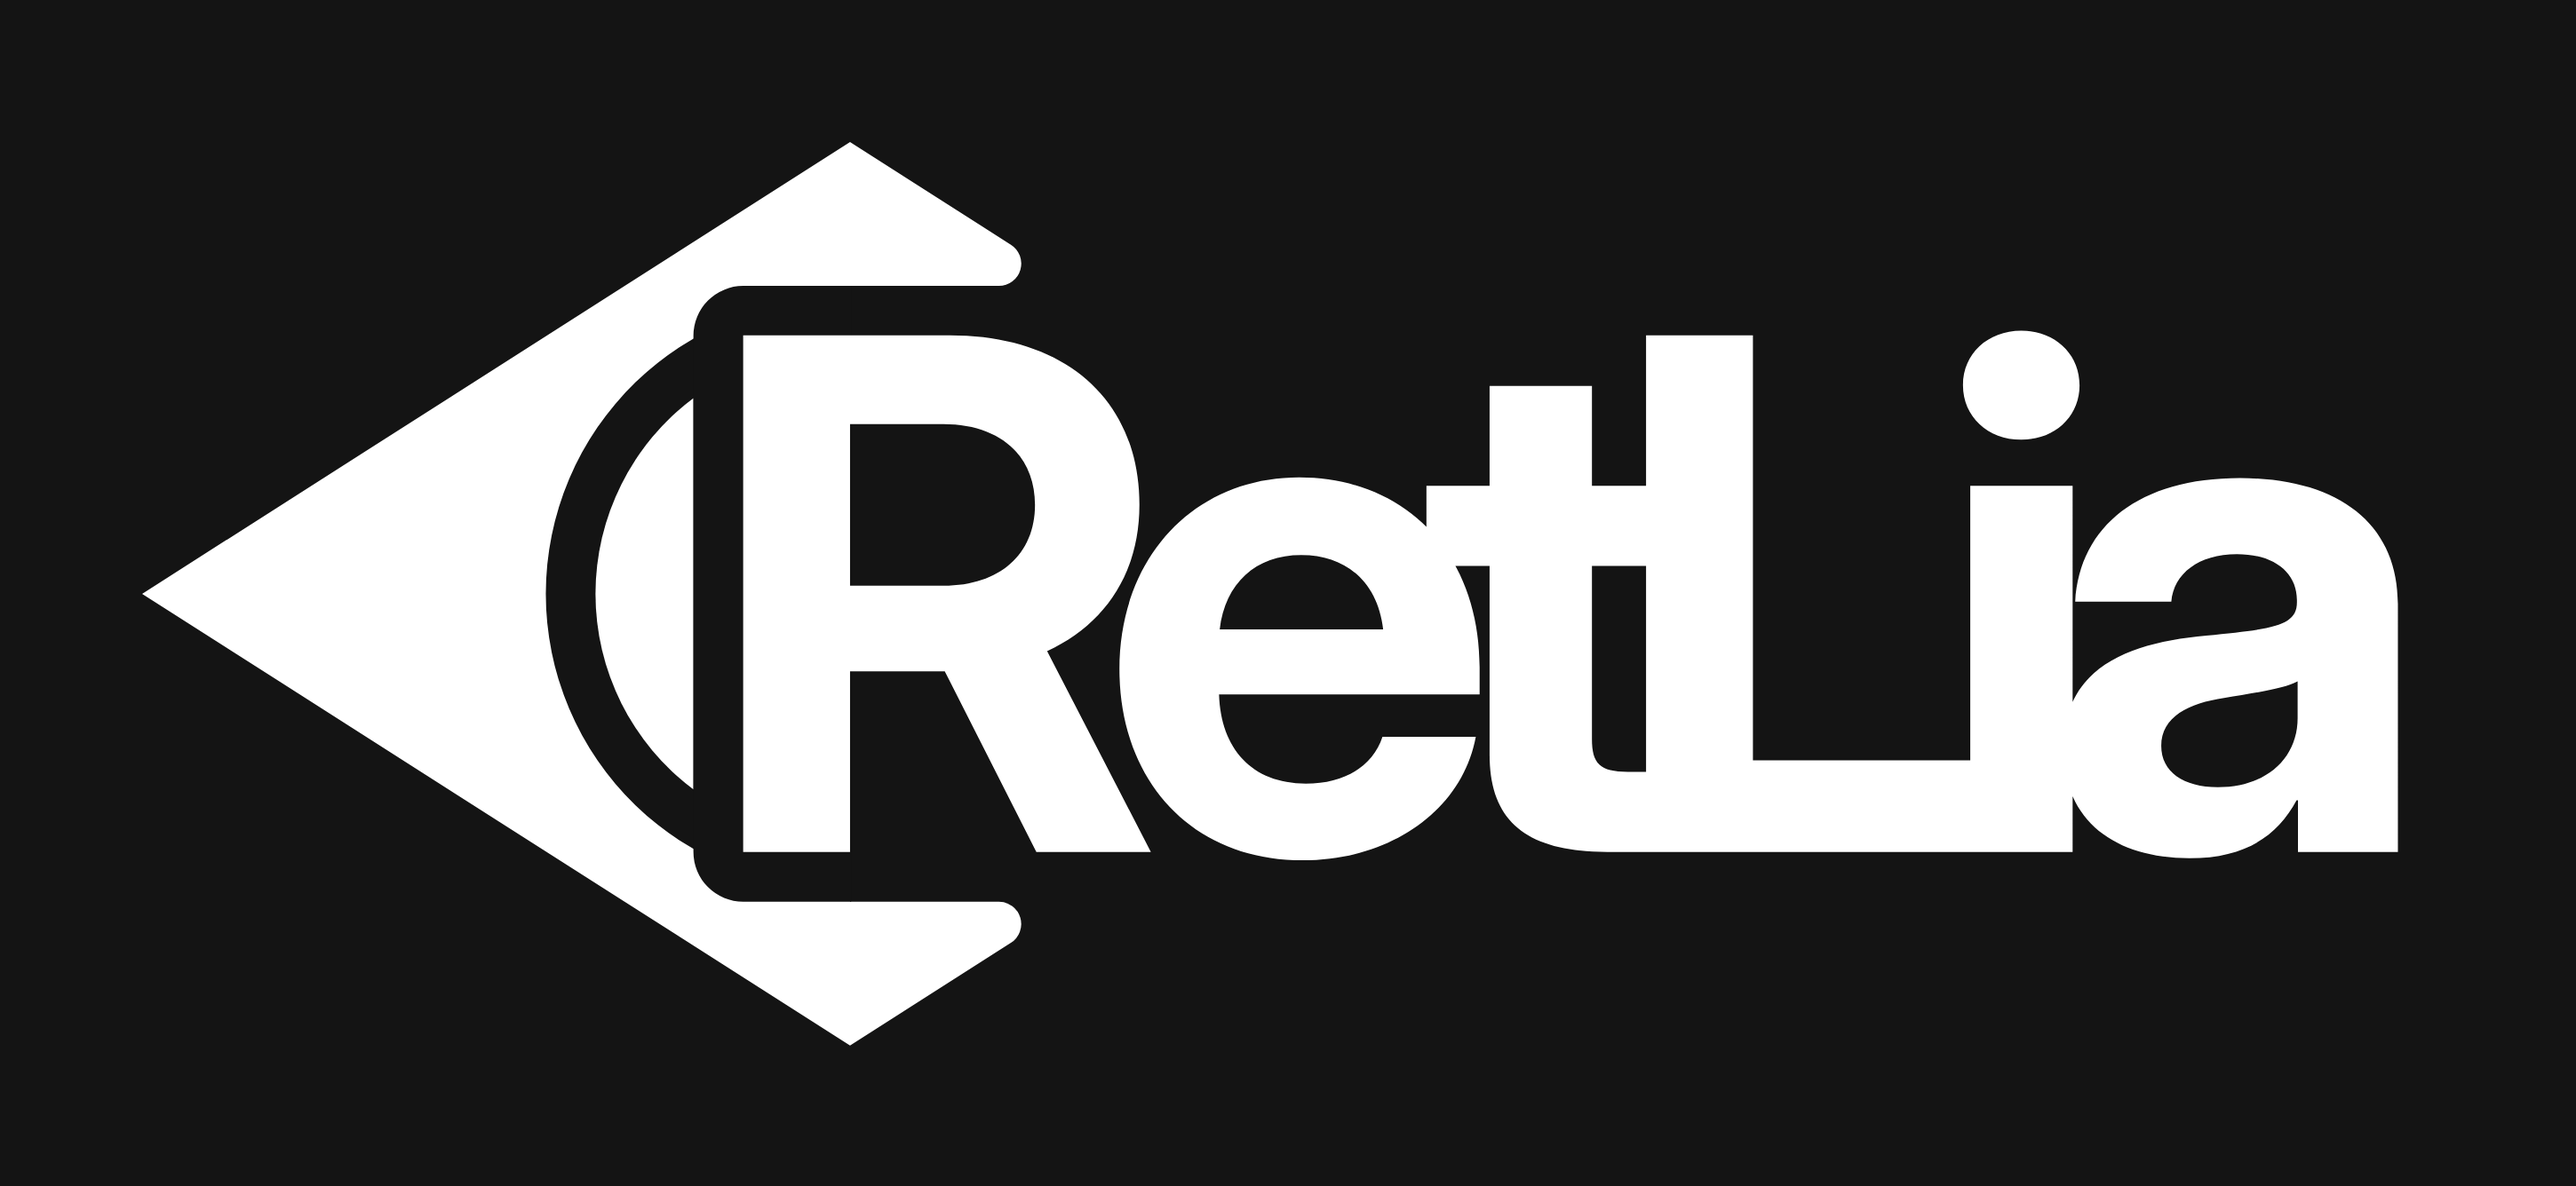
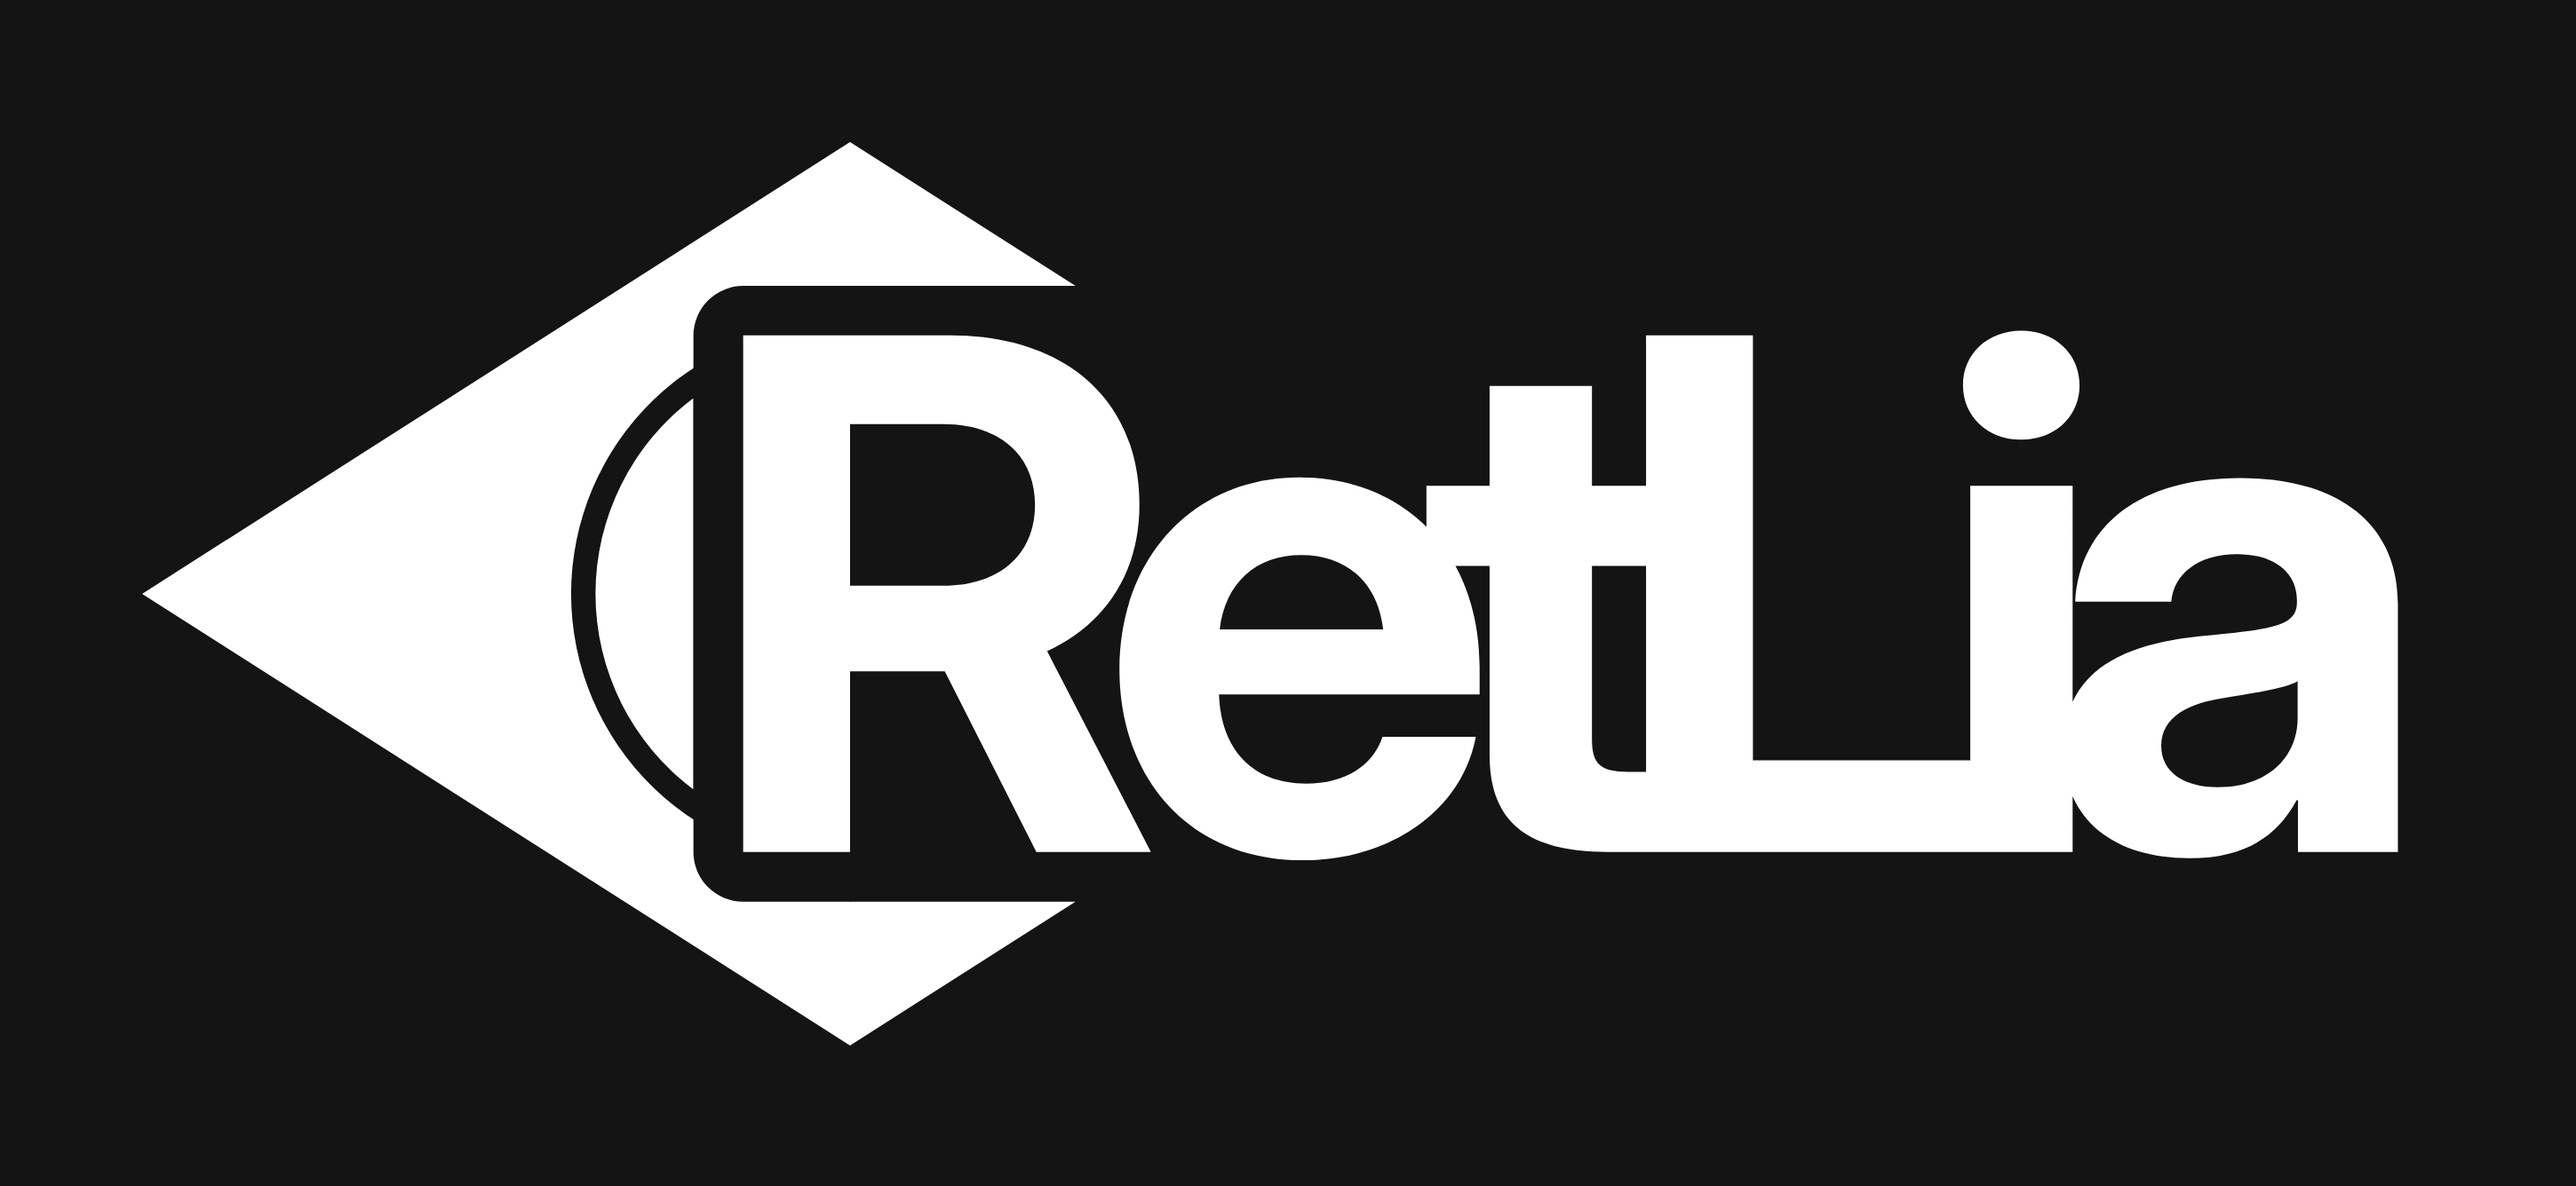
RetLia lateral: thinner white ring around the globe, sharp lozenge tips
Claude-Session: https://claude.ai/code/session_01S4SgoPNwAJLDoX8PJdvnWV

diff --git a/brand/retlia/gerar.py b/brand/retlia/gerar.py
@@ -111,7 +111,8 @@ def lateral(dark=False, loz=None, ball=None, text=None, fold=False, flapc=None):
     # bola: corpo sólido (o globo), separado do losango pela mesma borda branca do R;
     # só uma fração aparece à esquerda do R
     Rb=(H/2)*3.5/5.3*0.82         # bola um pouco menor que a da bandeira
-    Rw=Rb+border                  # recorte branco em volta da bola
+    ring=border*0.5               # anel branco da bola, mais fino que a borda do R
+    Rw=Rb+ring                    # recorte branco em volta da bola
     r_left=tx+lsb-border
     cx=r_left-Rb*0.40+Rb
     dy=math.sqrt(Rw*Rw-(flat-cx)**2)
@@ -120,16 +121,11 @@ def lateral(dark=False, loz=None, ball=None, text=None, fold=False, flapc=None):
     slope=(H/2)/W
     band_top=base_y-CAP-border; band_bot=base_y+border
     e=(band_top-top)/slope
-    # a ponta aguda onde a descida encontra o branco ganha um arredondamento
-    a=math.atan(slope); fr=border*0.45; d=fr/math.tan(a/2)
-    ca,sa=math.cos(a),math.sin(a)
     px=flat+e
-    sym=(f"M{flat:.2f} {top:.2f}L{px-d*ca:.2f} {band_top-d*sa:.2f}"
-         f"A{fr:.2f} {fr:.2f} 0 0 1 {px-d:.2f} {band_top:.2f}"
+    sym=(f"M{flat:.2f} {top:.2f}L{px:.2f} {band_top:.2f}"
          f"L{flat:.2f} {band_top:.2f}L{flat:.2f} {cy-dy:.2f}"
          f"A{Rw:.2f} {Rw:.2f} 0 1 0 {flat:.2f} {cy+dy:.2f}"
-         f"L{flat:.2f} {band_bot:.2f}L{px-d:.2f} {band_bot:.2f}"
-         f"A{fr:.2f} {fr:.2f} 0 0 1 {px-d*ca:.2f} {band_bot+d*sa:.2f}"
+         f"L{flat:.2f} {band_bot:.2f}L{px:.2f} {band_bot:.2f}"
          f"L{flat:.2f} {top+H:.2f}L{x0:.2f} {cy:.2f}Z")
     globe=(f"M{r_left:.2f} {cy-hb:.2f}A{Rb:.2f} {Rb:.2f} 0 0 0 {r_left:.2f} {cy+hb:.2f}Z")
     t,endx=text_path(BOLD,"RetLia",SIZE,tx,base_y,TRACK,KERN)
